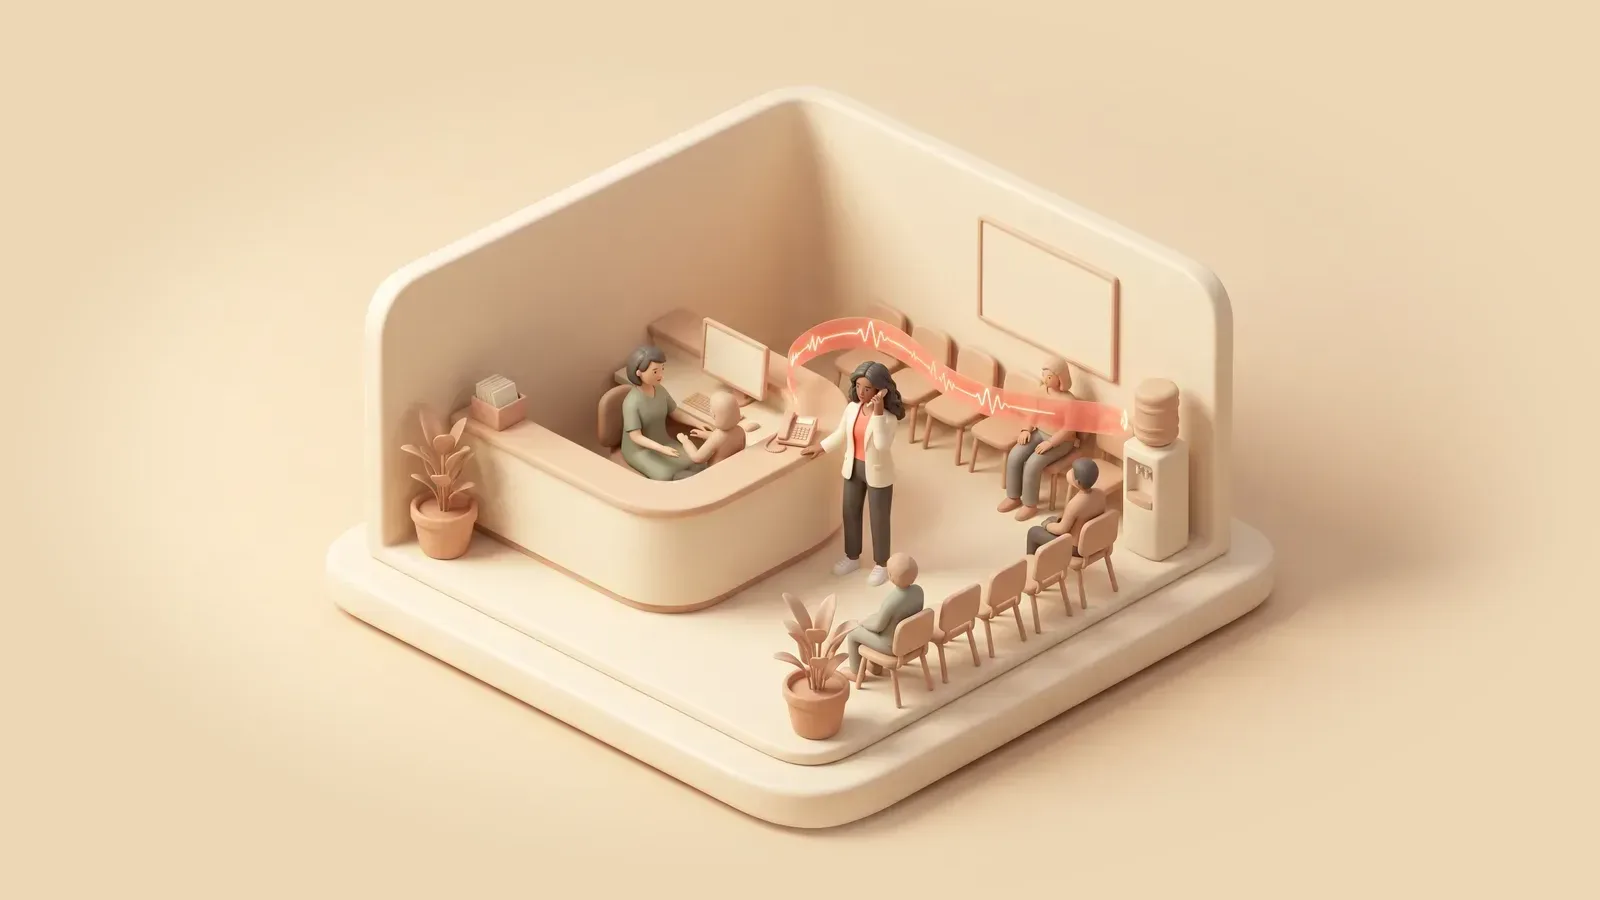
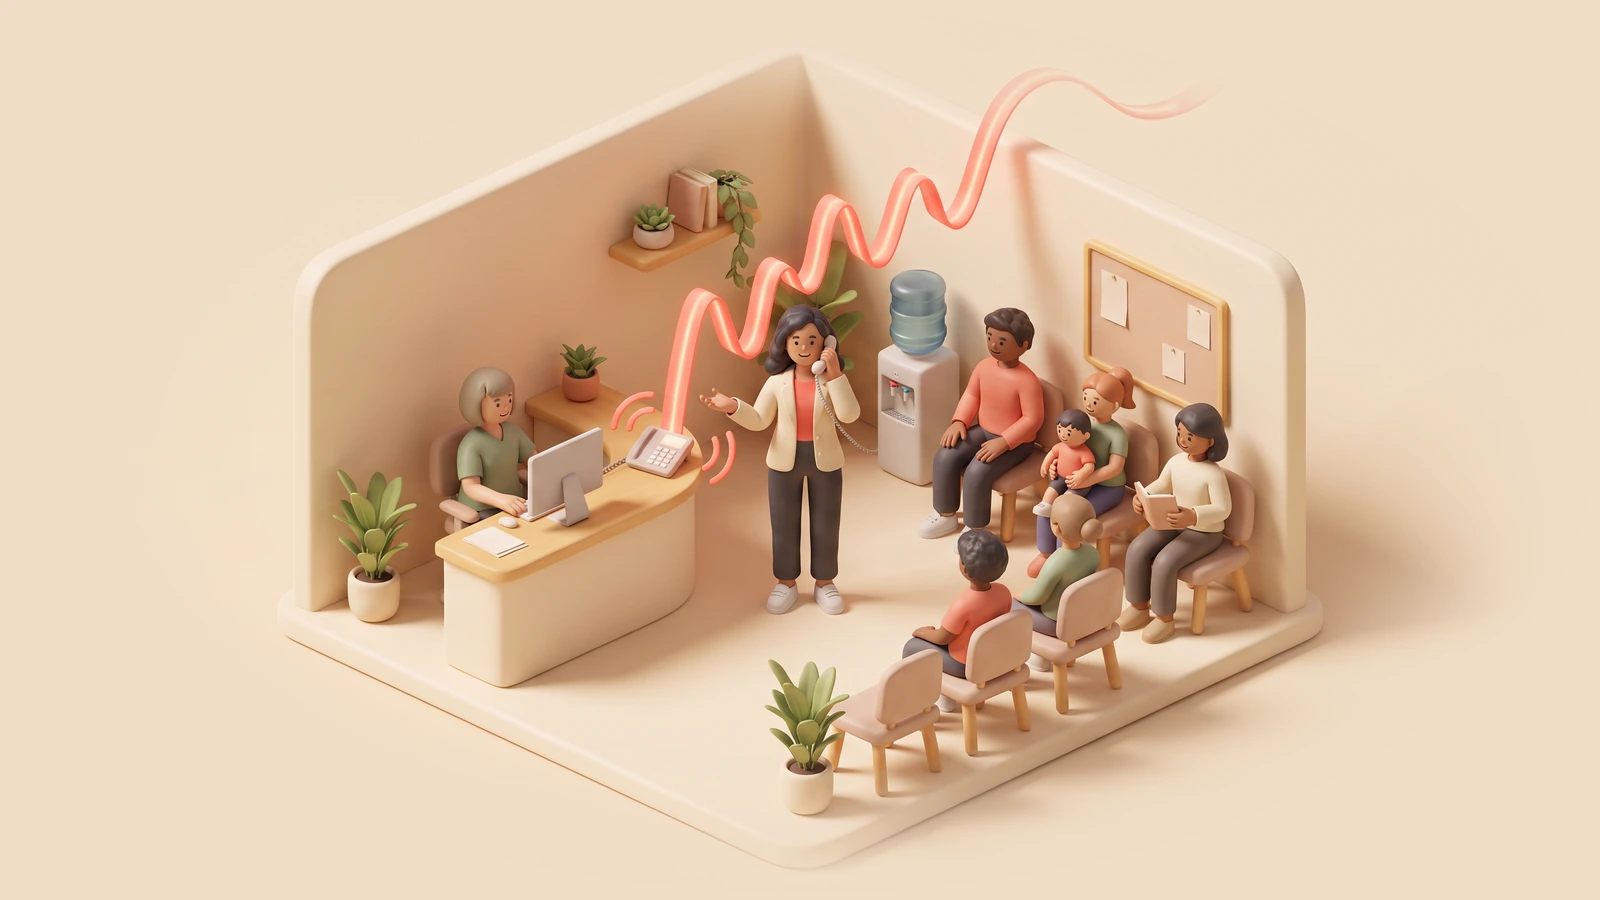
Land the clinic operator, and remove the overlay pinned to the old plate
The clinic was the one room where the recurring operator was the wrong person —
rendered as a clinician in a white coat, which made her indistinguishable from
clinic staff in the one chapter whose copy turns on telling the two women apart.
Conditioned on the new canonical reference she comes back correct: cream blazer
over coral shirt, dark wavy hair, on the phone, with the receptionist plainly
someone else in a sage-green top at the desk. The operator is now consistent in
five of seven plates and absent from the two crowd rooms, which is deliberate.

ClinicMotion goes with it. That overlay drew a vibrating phone, a reception
pulse and an SVG call route with coordinates — M287 305 C 320 300, 328 280 —
hand-fitted to the geometry of a plate that no longer exists. Against the new
render those marks land on empty floor. It was also redundant twice over: the
plate carries its own coral waveform and its own signal rings, and the founder
asked for the overlays to come off.

Removed properly rather than hidden: the component, its call site, six rule
blocks and five keyframes that nothing else referenced — phoneNudge, phoneRing,
receptionistTalk, voiceWave and routeCall. 3.4KB of CSS for a feature that is
gone.

Verified after: six chapters render with no console errors; under
prefers-reduced-motion nothing is hidden, the turntable stops and no animation
runs; with JavaScript disabled none of the twenty-two reveals is hidden, so the
[…]

diff --git a/components/story/story.module.css b/components/story/story.module.css
@@ -236,116 +236,6 @@
   mask-image: radial-gradient(ellipse 92% 88% at 50% 52%, #000 72%, transparent 100%);
 }
 
-/* The first unfinished scene is a clinic that is visibly alive. The base plate
-   remains the approved Kie render; these lightweight overlays lock motion to
-   objects already in that render rather than floating decorative UI over it.
-   Their percentages correspond to the phone, receptionist's voice orb and
-   waiting chairs in the 16:9 plate. */
-.clinicMotion {
-  position: absolute;
-  aspect-ratio: 16 / 9;
-  /* 138vh is 78vh (the desktop plate's height cap) at a 16:9 ratio.
-     Keeping the overlay itself 16:9 makes its object coordinates stay locked
-     to a contained image even on short laptop screens. */
-  width: min(100%, 138vh);
-  max-height: 100%;
-  inset: 50% auto auto 50%;
-  transform: translate(-50%, -50%);
-  pointer-events: none;
-}
-
-.clinicMotion * {
-  animation-play-state: paused;
-}
-
-.scene[data-state='active'] .clinicMotion * {
-  animation-play-state: running;
-}
-
-.phoneVibration,
-.receptionPulse,
-.queuePulse,
-.callStatus {
-  position: absolute;
-}
-
-.phoneVibration {
-  left: 28.7%;
-  top: 51.5%;
-  width: 5.2%;
-  aspect-ratio: 1;
-  transform: translate(-50%, -50%);
-  animation: phoneNudge 2.6s cubic-bezier(0.36, 0, 0.66, -0.56) infinite;
-}
-
-.phoneVibration span {
-  position: absolute;
-  inset: calc(var(--ring, 0) * -19%);
-  border-radius: 50%;
-  border: max(1px, 0.13vw) solid rgba(225, 91, 83, 0.78);
-  opacity: 0;
-  animation: phoneRing 2.6s cubic-bezier(0.16, 1, 0.3, 1) infinite;
-}
-
-.phoneVibration span:nth-child(2) {
-  --ring: 1;
-  animation-delay: 100ms;
-}
-
-.phoneVibration span:nth-child(3) {
-  --ring: 2;
-  animation-delay: 200ms;
-}
-
-.receptionPulse {
-  left: 36.8%;
-  top: 47.7%;
-  width: 3.5%;
-  aspect-ratio: 1;
-  border-radius: 50%;
-  background: radial-gradient(circle, rgba(255, 240, 224, 0.95) 0 16%, rgba(242, 112, 97, 0.7) 45%, transparent 72%);
-  transform: translate(-50%, -50%);
-  filter: drop-shadow(0 0 9px rgba(235, 100, 85, 0.54));
-  animation: receptionistTalk 1.55s ease-in-out infinite;
-}
-
-.receptionPulse span {
-  position: absolute;
-  inset: -22%;
-  border: 1px solid rgba(237, 114, 97, 0.5);
-  border-radius: 50%;
-  animation: voiceWave 1.55s ease-out infinite;
-}
-
-.receptionPulse span:nth-child(2) {
-  animation-delay: 780ms;
-}
-
-.callRoute {
-  position: absolute;
-  inset: 0;
-  overflow: visible;
-}
-
-.callRouteGlow,
-.callRouteCore {
-  fill: none;
-  stroke-linecap: round;
-  stroke-dasharray: 0.12 0.88;
-  animation: routeCall 2.6s ease-in-out infinite;
-}
-
-.callRouteGlow {
-  stroke: rgba(234, 101, 87, 0.18);
-  stroke-width: 8;
-  filter: blur(4px);
-}
-
-.callRouteCore {
-  stroke: rgba(231, 91, 79, 0.88);
-  stroke-width: 2;
-}
-
 .queuePulse {
   left: 65.2%;
   top: 63.5%;
@@ -387,35 +277,6 @@
   box-shadow: 0 0 0 4px rgba(223, 93, 83, 0.14);
 }
 
-@keyframes phoneNudge {
-  0%, 8%, 30%, 100% { transform: translate(-50%, -50%) rotate(0deg); }
-  12%, 20% { transform: translate(-53%, -50%) rotate(-4deg); }
-  16%, 24% { transform: translate(-47%, -50%) rotate(4deg); }
-}
-
-@keyframes phoneRing {
-  0%, 8% { opacity: 0; transform: scale(0.55); }
-  18% { opacity: 0.9; }
-  34%, 100% { opacity: 0; transform: scale(1.55); }
-}
-
-@keyframes receptionistTalk {
-  0%, 100% { transform: translate(-50%, -50%) scale(0.9); opacity: 0.76; }
-  45% { transform: translate(-50%, -50%) scale(1.13); opacity: 1; }
-}
-
-@keyframes voiceWave {
-  0% { opacity: 0; transform: scale(0.55); }
-  25% { opacity: 0.68; }
-  100% { opacity: 0; transform: scale(1.7); }
-}
-
-@keyframes routeCall {
-  0%, 10% { stroke-dashoffset: 0.16; opacity: 0; }
-  20%, 55% { opacity: 1; }
-  72%, 100% { stroke-dashoffset: -0.88; opacity: 0; }
-}
-
 @keyframes queueBreathe {
   0%, 100% { opacity: 0.2; transform: scale(0.7); }
   50% { opacity: 0.7; transform: scale(1.5); }
@@ -441,10 +302,6 @@
 @media (max-width: 899px) {
   .artCol {
     max-height: 38svh;
-  }
-
-  .clinicMotion {
-    display: none;
   }
 
   .plateMedia,
@@ -1103,7 +960,6 @@
     overflow: visible;
   }
 
-
   .rail,
   .progressTrack,
   .cue,
@@ -1219,9 +1075,6 @@
     display: none;
   }
 
-  .clinicMotion {
-    display: none;
-  }
 }
 
 /* ------------------------------------------- reduced motion, wide screen ---- */

diff --git a/components/story/ScrollStory.tsx b/components/story/ScrollStory.tsx
@@ -310,7 +310,6 @@ export function ScrollStory({ needs, call }: Props) {
                         if (node?.complete && node.naturalWidth === 0) markArtFailed(chapter.id);
                       }}
                     />
-                    {chapter.id === 'clinics' && <ClinicMotion />}
                   </div>
                 ) : (
                   <IsoDistrict variant={chapter.drawn} className={styles.plateDrawn} />
@@ -413,44 +412,9 @@ export function ScrollStory({ needs, call }: Props) {
   );
 }
 
-function ClinicMotion() {
-  return (
-    <div className={styles.clinicMotion} aria-hidden="true">
-      <span className={styles.phoneVibration}>
-        <span />
-        <span />
-        <span />
-      </span>
-
-      <span className={styles.receptionPulse}>
-        <span />
-        <span />
-      </span>
-
-      <svg className={styles.callRoute} viewBox="0 0 1000 563" preserveAspectRatio="none">
-        <path
-          className={styles.callRouteGlow}
-          pathLength="1"
-          d="M287 305 C 320 300, 328 280, 352 270 C 380 259, 388 276, 407 273"
-        />
-        <path
-          className={styles.callRouteCore}
-          pathLength="1"
-          d="M287 305 C 320 300, 328 280, 352 270 C 380 259, 388 276, 407 273"
-        />
-      </svg>
-
-      <span className={styles.queuePulse} />
-      <span className={styles.callStatus}>
-        <i />
-        Call answered
-      </span>
-    </div>
-  );
-}
 
 const VERTICAL_PLATE: Record<string, { src: string; blend: 'strong' | 'soft'; ground: string }> = {
-  clinics: { src: '/media/story/decibyl-room-02-the-clinic.webp', blend: 'soft', ground: '#edd7b5' },
+  clinics: { src: '/media/story/decibyl-room-02-the-clinic.webp', blend: 'soft', ground: '#f1dec6' },
   'real-estate': { src: '/media/story/decibyl-room-03-property-leads.webp', blend: 'soft', ground: '#f0cfad' },
   'd2c-ndr-recovery': { src: '/media/story/decibyl-room-04-commerce-support.webp', blend: 'soft', ground: '#fcdabc' },
 };
